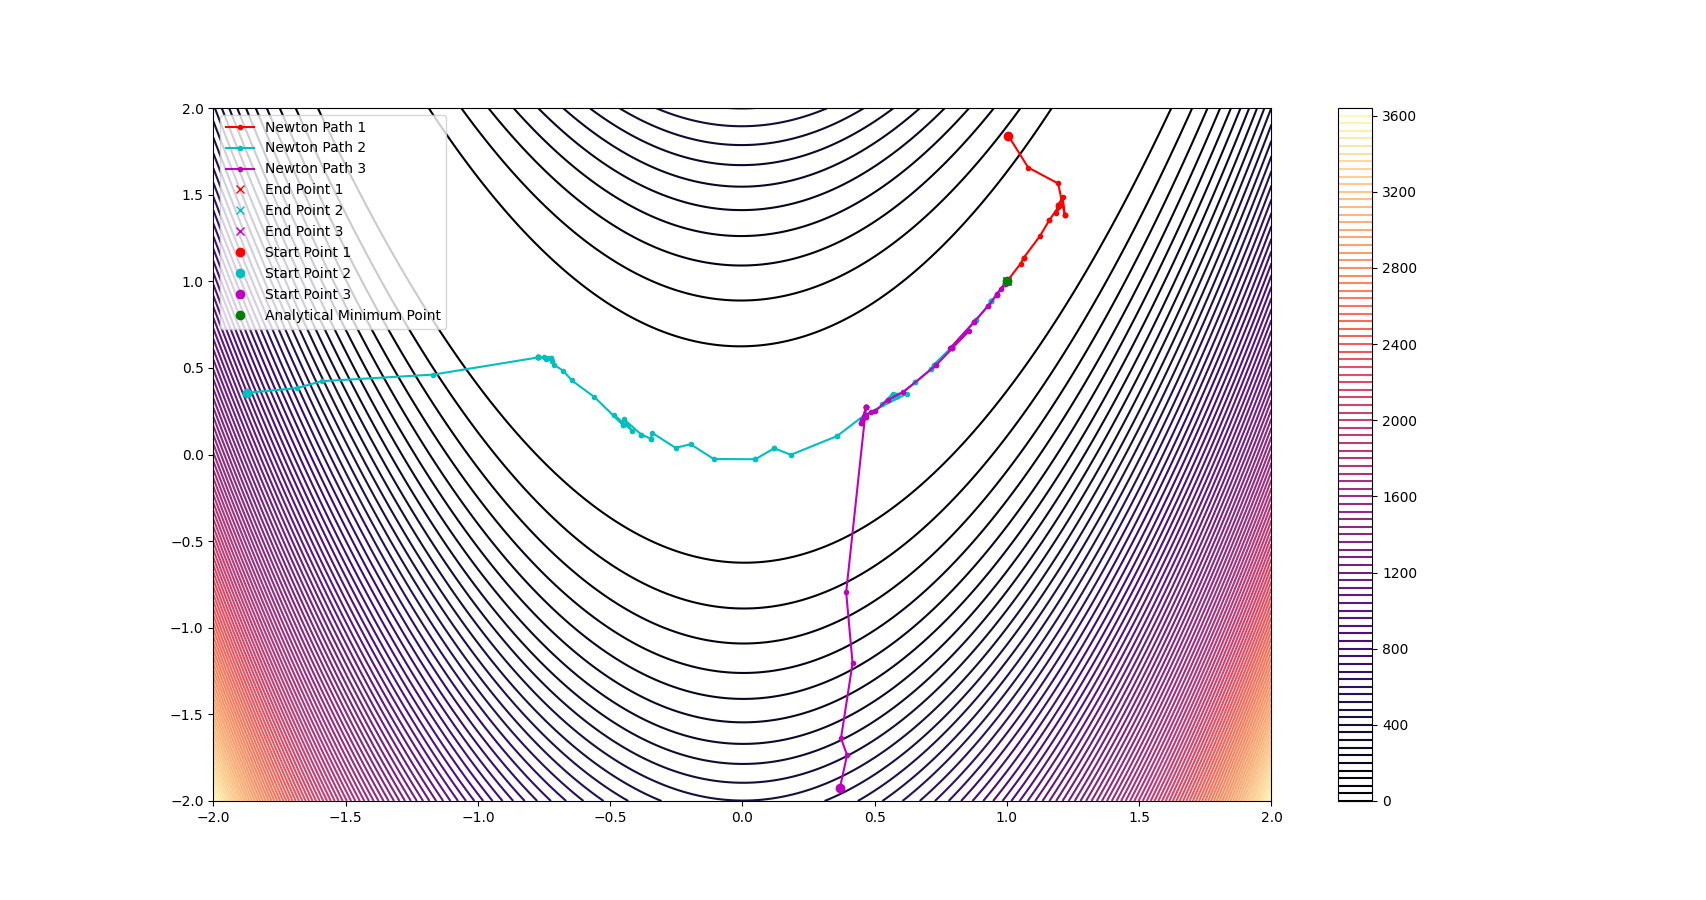
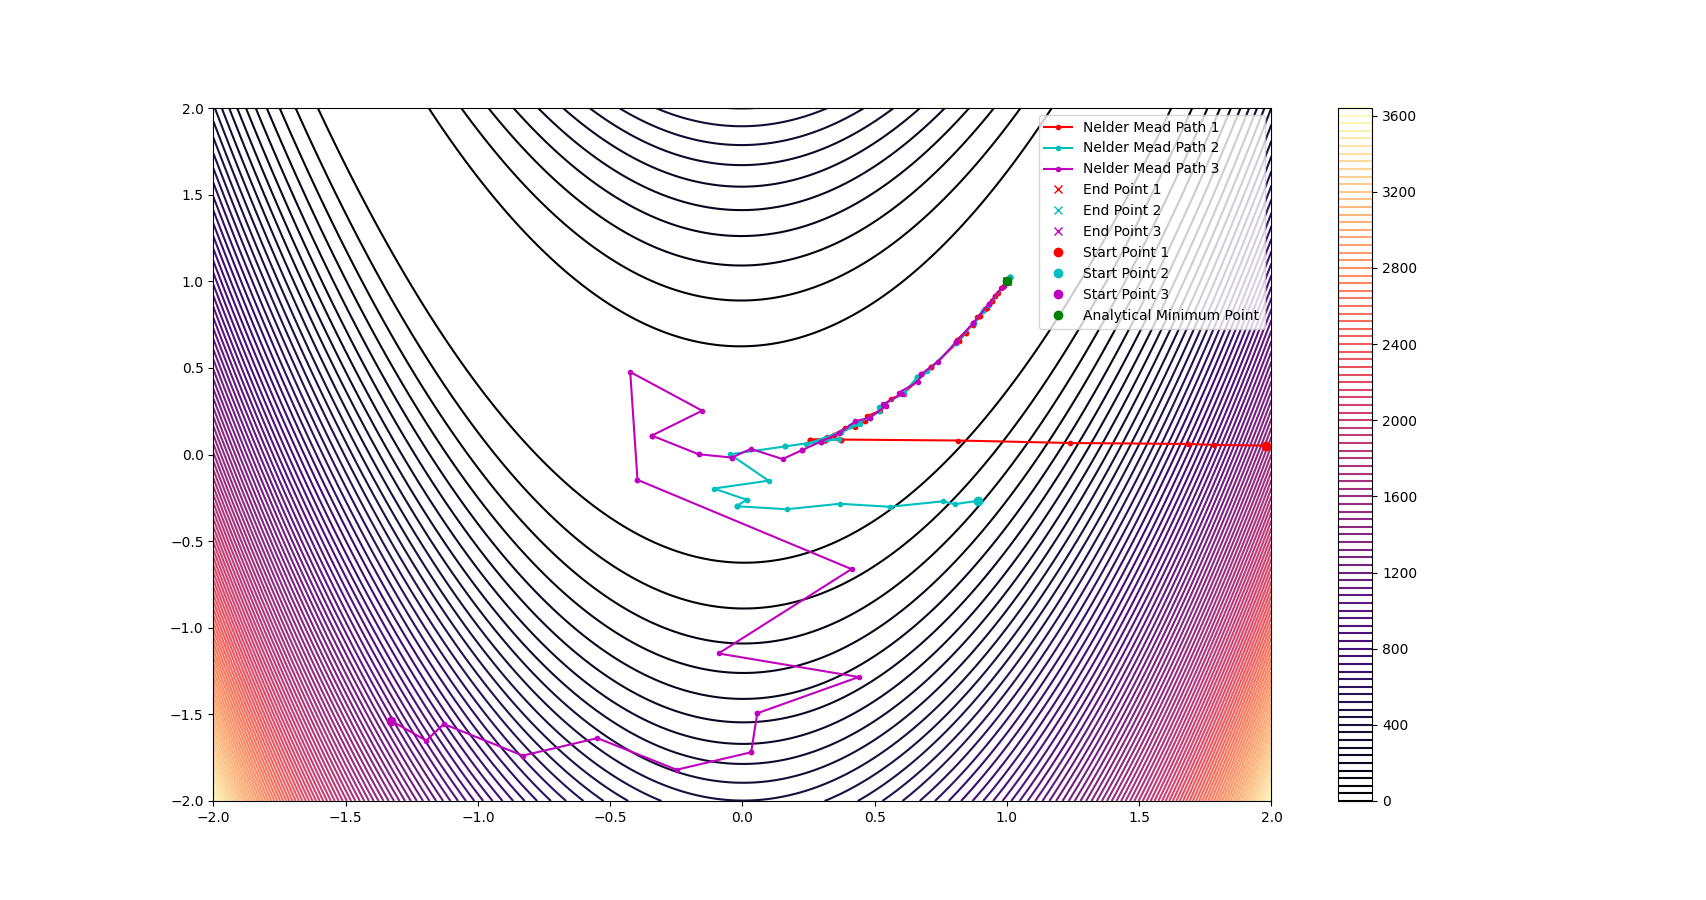
Revised labelling for Task 3

diff --git a/task3.py b/task3.py
@@ -37,9 +37,9 @@ path3 = nelder_mead(start_point3, tolerance, iterations)
 # NELDER-MEAD SIMPLEX END
 
 # Plot the paths on the contour plots
-ax.plot(path1[:,0], path1[:,1], 'r.-', label='Newton Path 1')  # Plot the path in red
-ax.plot(path2[:,0], path2[:,1], 'c.-', label='Newton Path 2')  # Plot the path in cyan
-ax.plot(path3[:,0], path3[:,1], 'm.-', label='Newton Path 3')  # Plot the path in magenta
+ax.plot(path1[:,0], path1[:,1], 'r.-', label='Nelder Mead Path 1')  # Plot the path in red
+ax.plot(path2[:,0], path2[:,1], 'c.-', label='Nelder Mead Path 2')  # Plot the path in cyan
+ax.plot(path3[:,0], path3[:,1], 'm.-', label='Nelder Mead Path 3')  # Plot the path in magenta
 ax.plot(path1[-1,0], path1[-1,1], 'rx', label='End Point 1')  # Ending point in red cross
 ax.plot(path2[-1,0], path2[-1,1], 'cx', label='End Point 2')  # Ending point in cyan cross
 ax.plot(path3[-1,0], path3[-1,1], 'mx', label='End Point 3')  # Ending point in magenta cross
